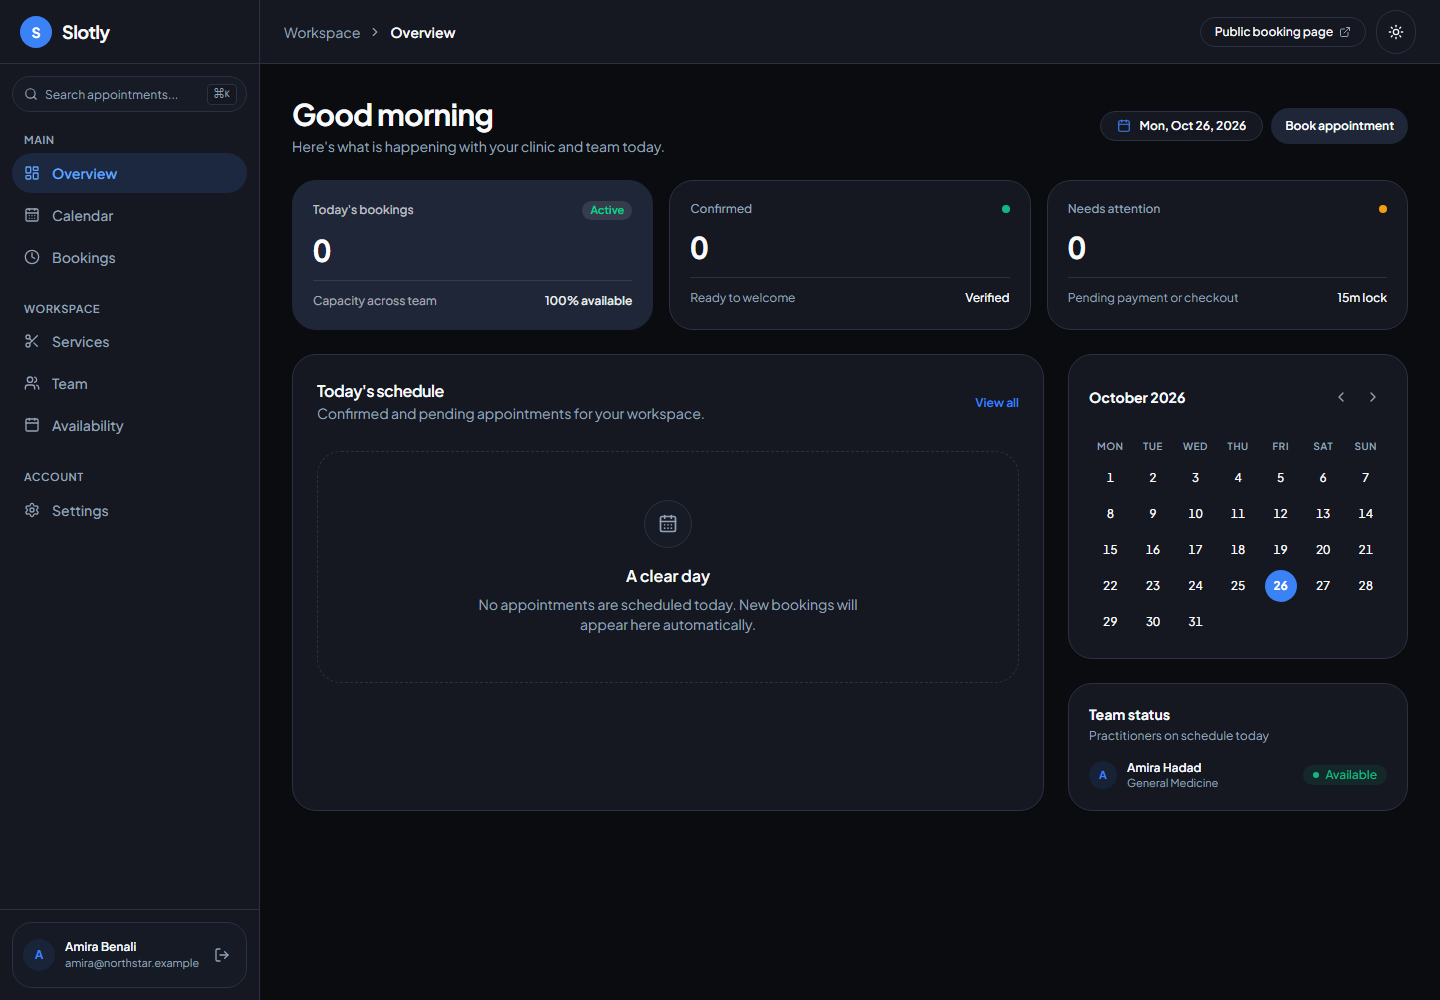
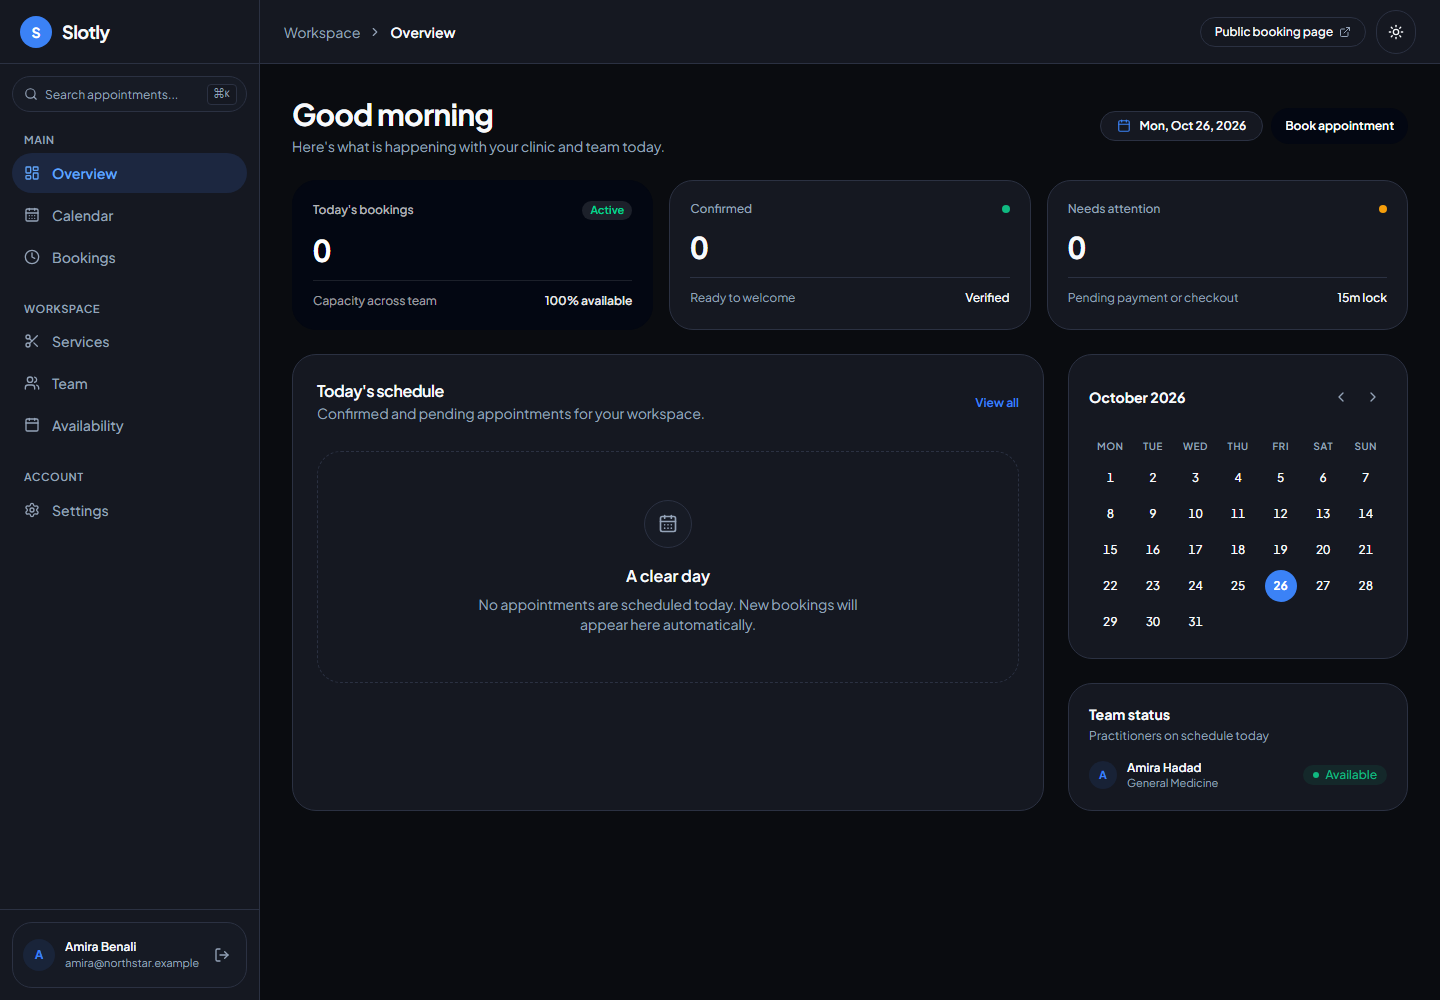
style(ui): darken hero metric card in dark mode to pitch midnight obsidian

Changed region(s): [[0.1875, 0.155, 0.4688, 0.341], [0.875, 0.093, 1.0, 0.155]]

diff --git a/src/slotly-web/src/index.css b/src/slotly-web/src/index.css
@@ -47,7 +47,7 @@
   --muted-foreground: #94A3B8;
   --accent: #1C2740;
   --accent-foreground: #60A5FA;
-  --dark-surface: #1E2638;
+  --dark-surface: #030712;
   --dark-surface-foreground: #FFFFFF;
   --success: #10B981;
   --success-foreground: #FFFFFF;

diff --git a/docs/design-system.md b/docs/design-system.md
@@ -32,7 +32,7 @@ All color pairings exceed WCAG AA contrast standards (minimum 4.5:1 for body cop
 | `primary-foreground` | `#FFFFFF` | `#FFFFFF` | Text on primary elements |
 | `accent` | `#EFF4FE` | `#1C2740` | Active sidebar nav highlight, selected slot surface |
 | `accent-foreground` | `#2563EB` | `#60A5FA` | Text on accent surfaces |
-| `dark-surface` | `#020617` | `#1E2638` | High-impact dark metric card & secondary action pills |
+| `dark-surface` | `#020617` | `#030712` | High-impact dark metric card & secondary action pills |
 | `dark-surface-foreground` | `#FFFFFF` | `#FFFFFF` | Text on dark metric cards |
 | `success` | `#079455` | `#10B981` | Confirmed bookings, available slots, positive delta |
 | `warning` | `#F79009` | `#F59E0B` | Pending approvals, temporary locks, alerts |
